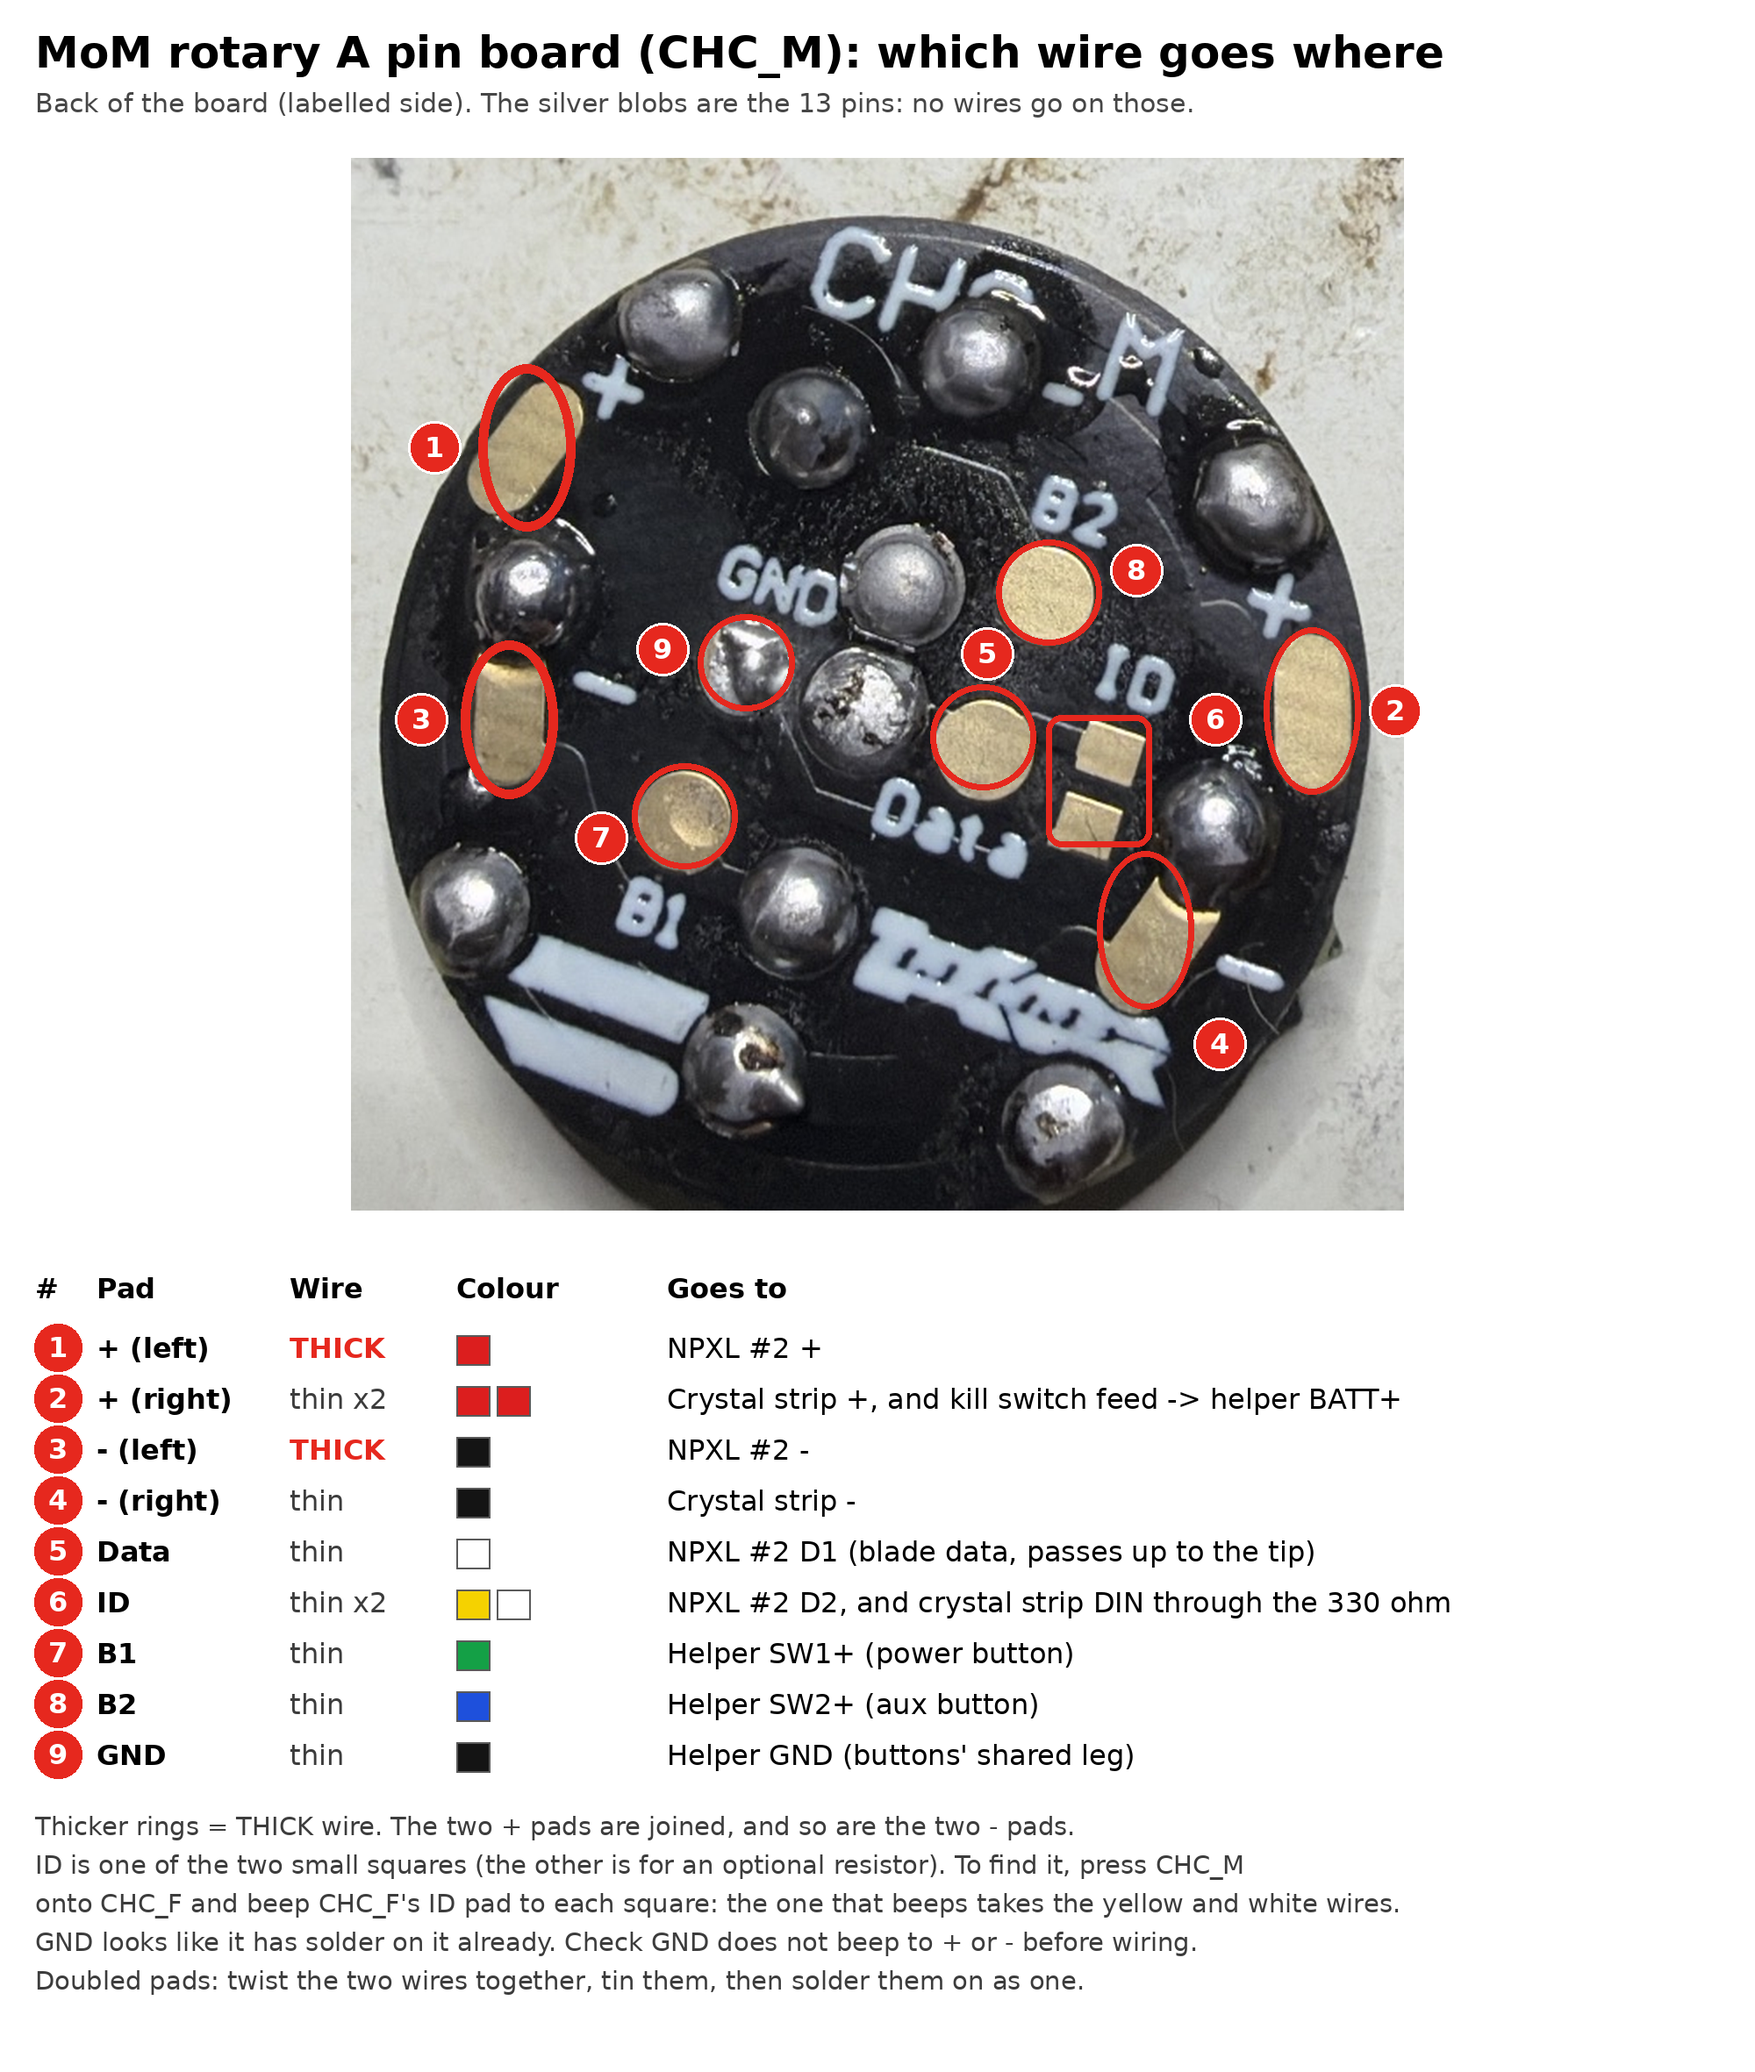
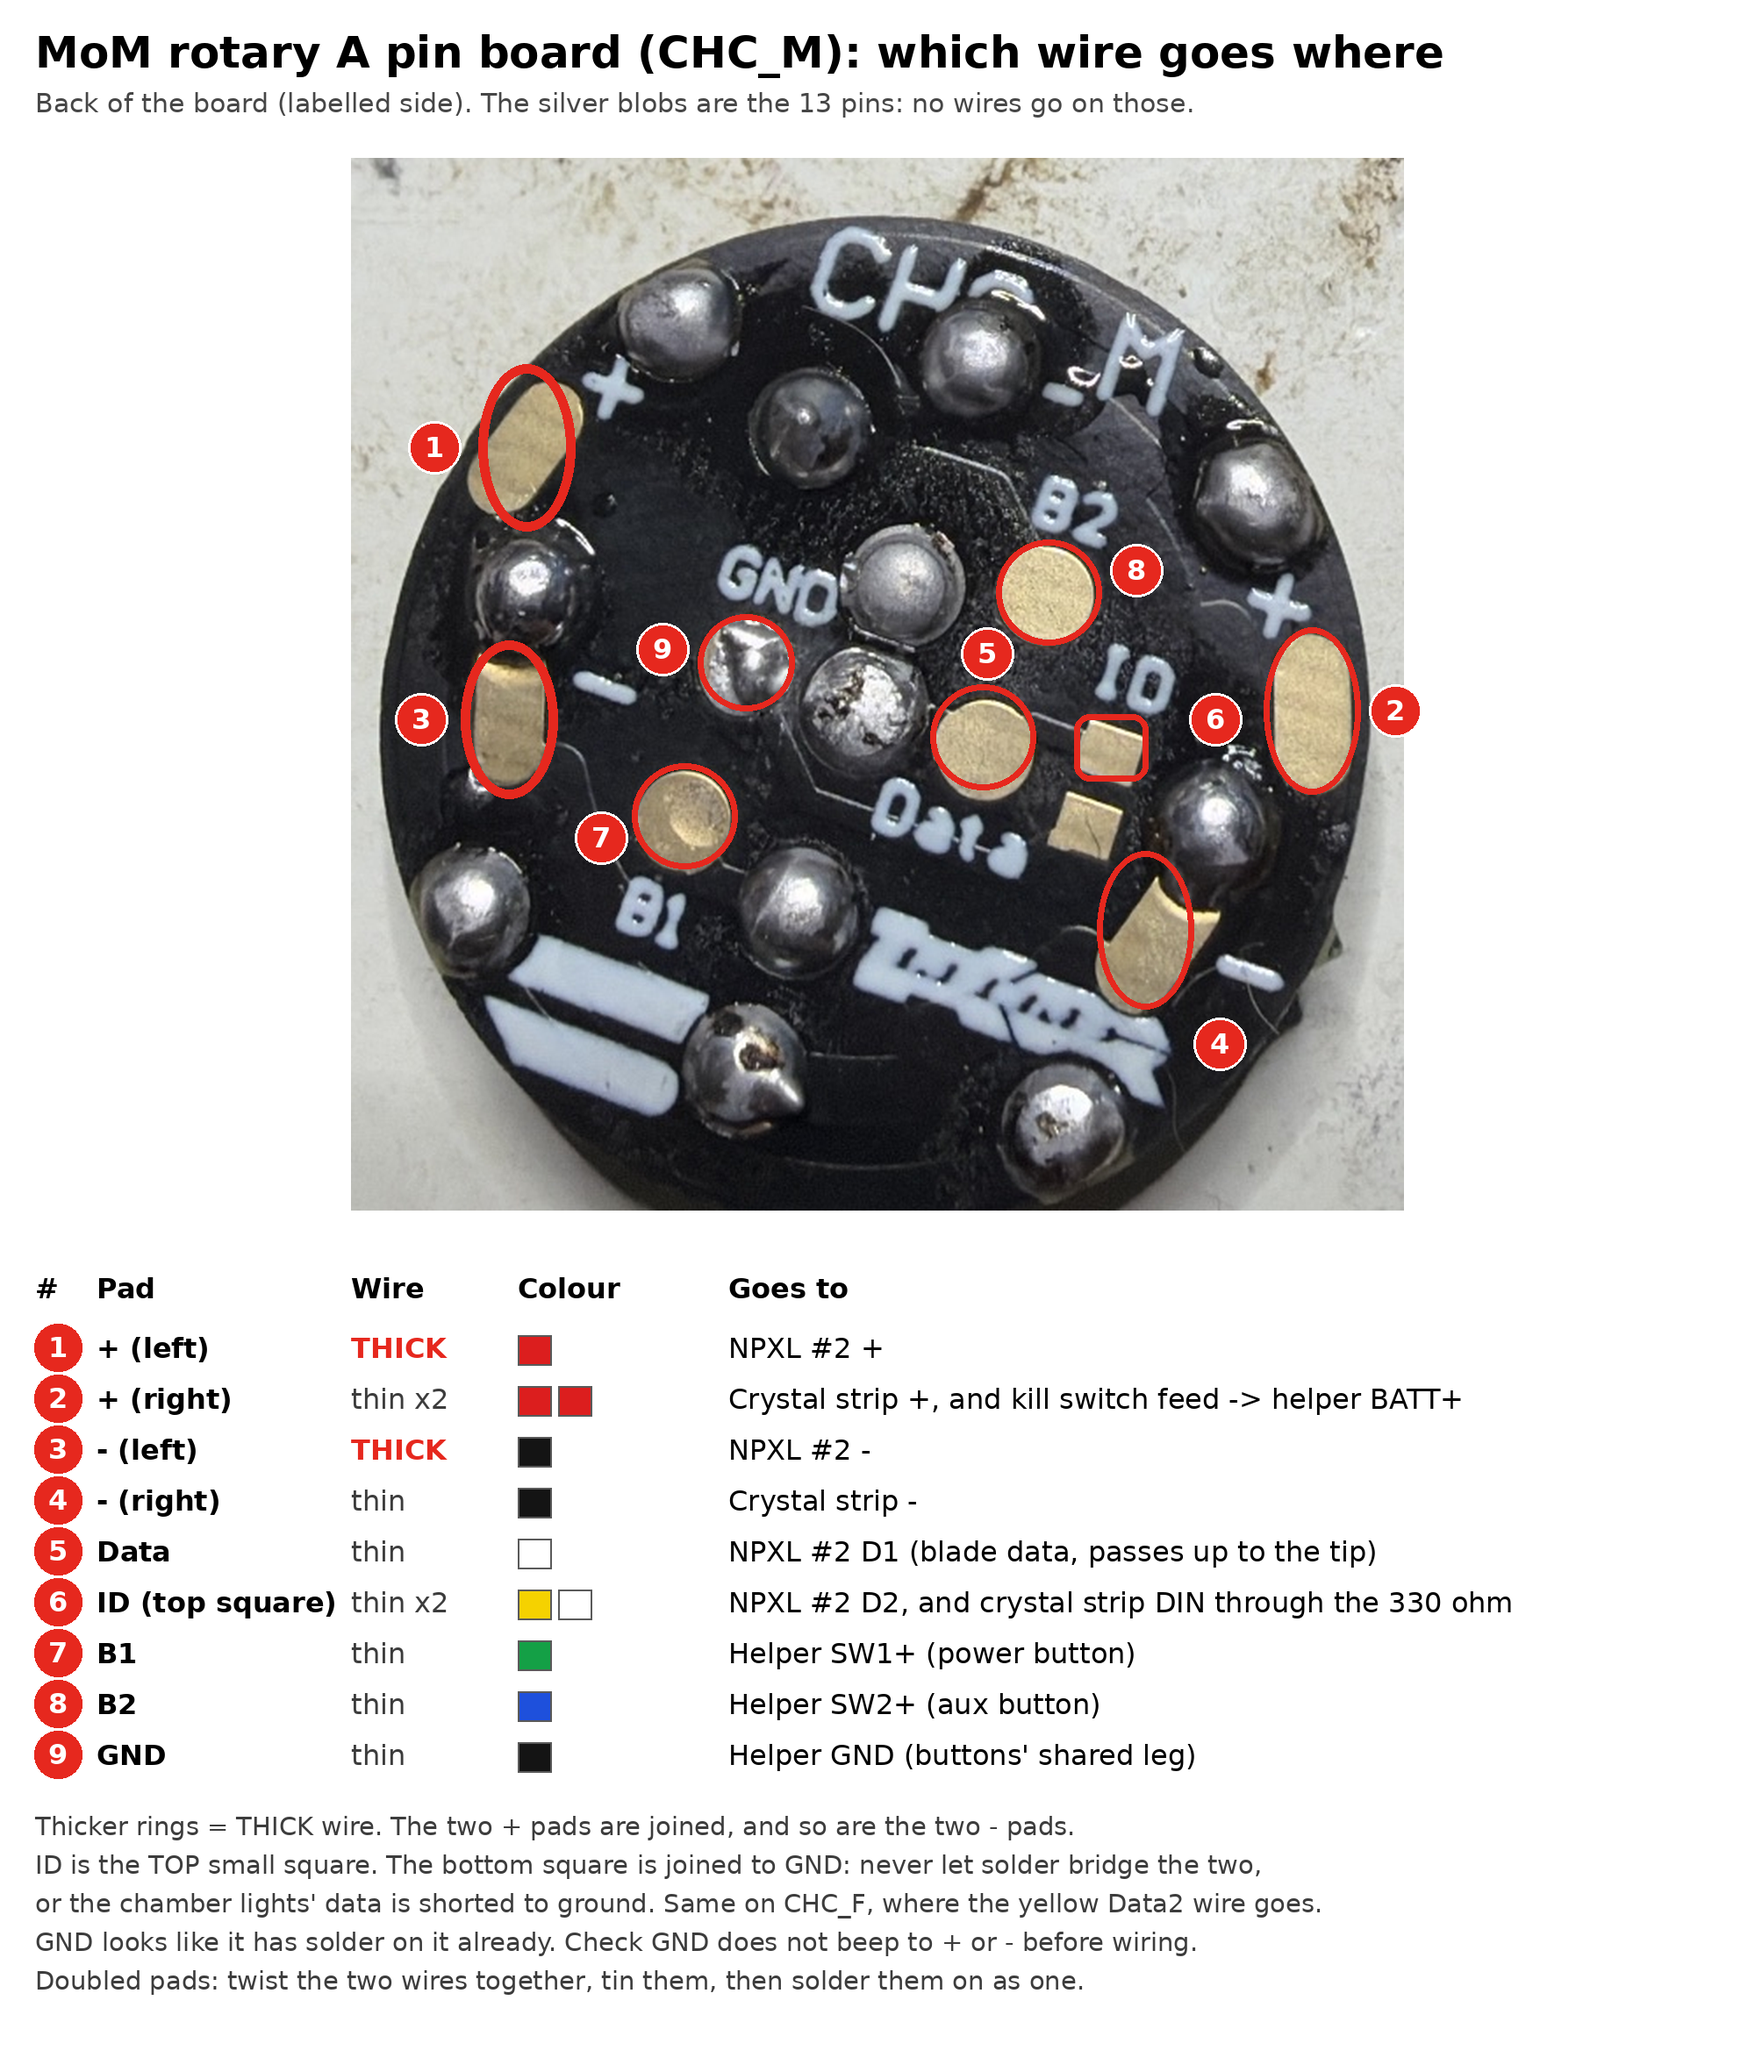
Mark ID as the top square on the rotary boards and warn about the GND square
Claude-Session: https://claude.ai/code/session_01265pwD5zDbVVSh7CxSi4nL

diff --git a/saber-wiring/README.md b/saber-wiring/README.md
@@ -195,6 +195,8 @@ This is a pass-through. Every ring on the female board (CHC_F) touches the same-
 | **B2** | BT2 | Helper **SW2+** (aux button) |
 | **GND** | GND (pad 5) | Helper **GND** (shared leg of both buttons) |
 
+On both boards, **ID** is the upper of the two small square pads next to the "ID" label. The lower square is joined to GND (it's for an optional ID resistor), so never let solder bridge the two: that would short Data2 to ground.
+
 This set has one data contact plus an **ID** contact. The blade and the connector LEDs need two data wires, so this wiring carries the connector-LED data (D2) on ID. That leaves no contact for the NPXL's blade-detect (BD) pin, which is why Blade Detect is off.
 
 In the MoM the buttons do use B1, B2 and GND, because the 4-pin pogo is taken up by the kill switch and the control-box lights. On the hilt side, three short wires run from the pin board (CHC_M) to the helper board.
